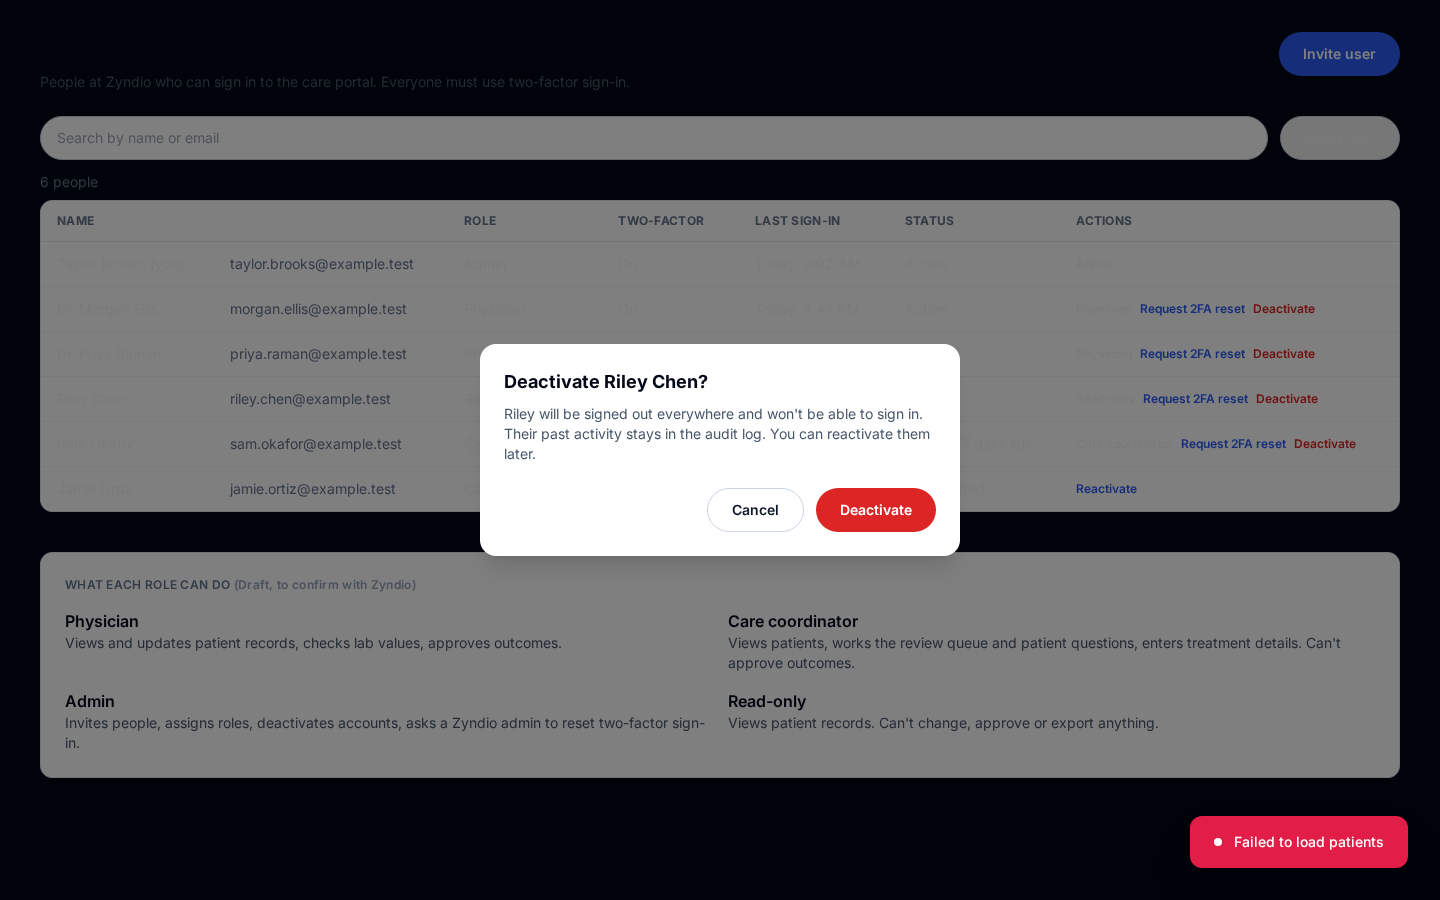
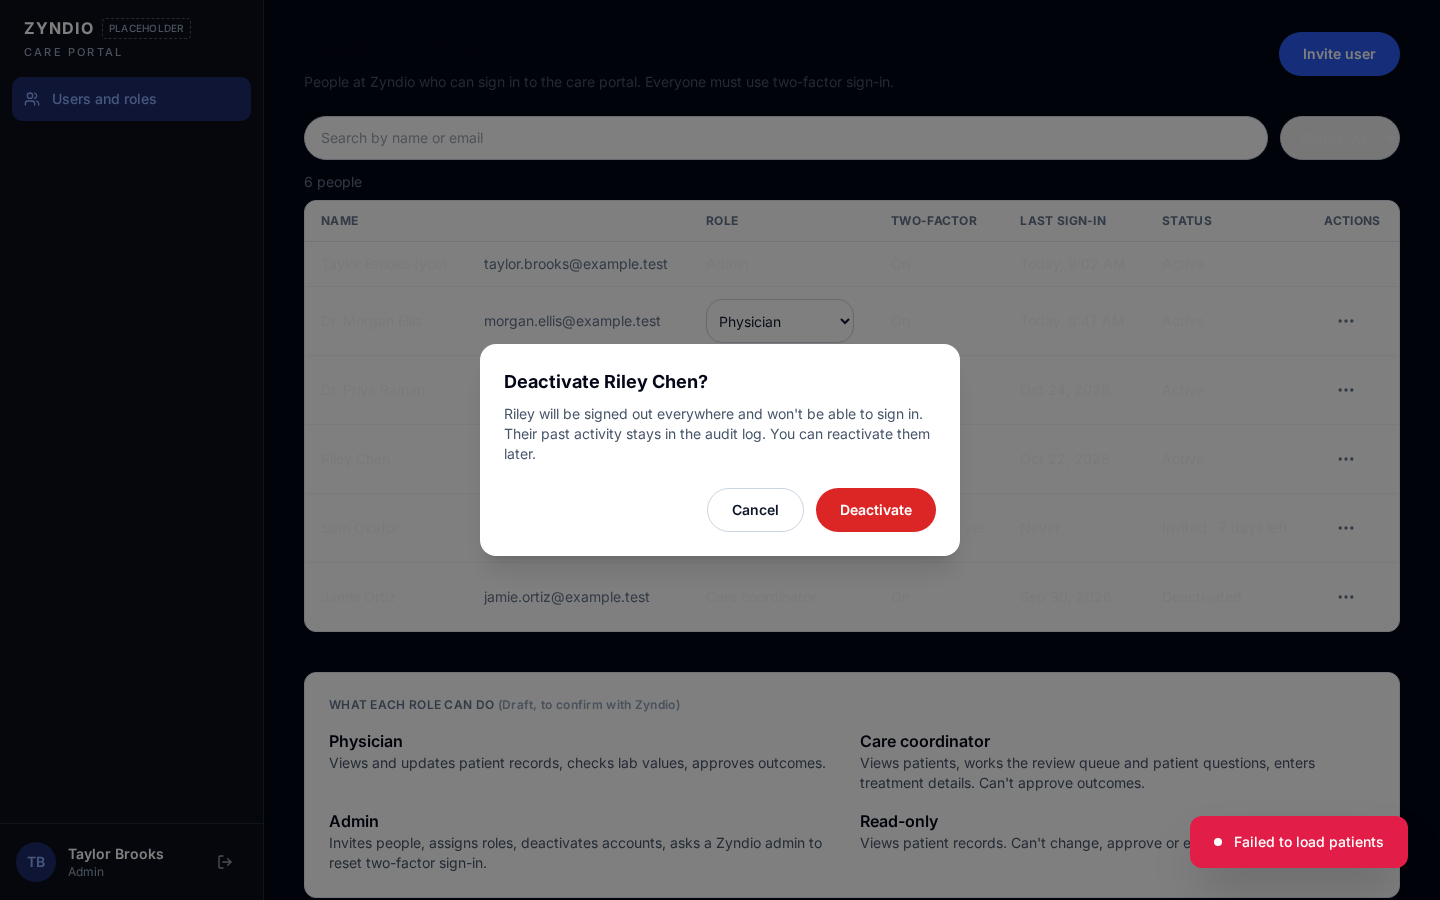
docs(screenshots): refresh 07-users-roles after Ava H1-H3 fixes
Regenerated via `npm run build:preview` +
`python3 scripts/demo_screenshots_admin.py --screen 07-users-roles`
(14 states x light/dark). Shows the sidebar, Role dropdowns, and "..."
row-action menus from the H1-H3 fixes. Also copied to
work/screenshots/tc-011/07-users-roles/ for Ava's review.

diff --git a/docs/screenshots/tc-005/INDEX.md b/docs/screenshots/tc-005/INDEX.md
@@ -2,6 +2,17 @@
 
 | Screen | State | Light | Dark |
 |---|---|---|---|
+| 07-users-roles | deactivate-confirm | [png](07-users-roles/deactivate-confirm--light.png) | [png](07-users-roles/deactivate-confirm--dark.png) |
+| 07-users-roles | deactivated | [png](07-users-roles/deactivated--light.png) | [png](07-users-roles/deactivated--dark.png) |
+| 07-users-roles | default | [png](07-users-roles/default--light.png) | [png](07-users-roles/default--dark.png) |
+| 07-users-roles | empty | [png](07-users-roles/empty--light.png) | [png](07-users-roles/empty--dark.png) |
+| 07-users-roles | error | [png](07-users-roles/error--light.png) | [png](07-users-roles/error--dark.png) |
+| 07-users-roles | invite | [png](07-users-roles/invite--light.png) | [png](07-users-roles/invite--dark.png) |
+| 07-users-roles | invite-sent | [png](07-users-roles/invite-sent--light.png) | [png](07-users-roles/invite-sent--dark.png) |
+| 07-users-roles | invite-validation | [png](07-users-roles/invite-validation--light.png) | [png](07-users-roles/invite-validation--dark.png) |
+| 07-users-roles | last-admin | [png](07-users-roles/last-admin--light.png) | [png](07-users-roles/last-admin--dark.png) |
+| 07-users-roles | loading | [png](07-users-roles/loading--light.png) | [png](07-users-roles/loading--dark.png) |
 | 07-users-roles | request-2fa-reset | [png](07-users-roles/request-2fa-reset--light.png) | [png](07-users-roles/request-2fa-reset--dark.png) |
 | 07-users-roles | reset-2fa | [png](07-users-roles/reset-2fa--light.png) | [png](07-users-roles/reset-2fa--dark.png) |
 | 07-users-roles | reset-requested | [png](07-users-roles/reset-requested--light.png) | [png](07-users-roles/reset-requested--dark.png) |
+| 07-users-roles | role-confirm | [png](07-users-roles/role-confirm--light.png) | [png](07-users-roles/role-confirm--dark.png) |
